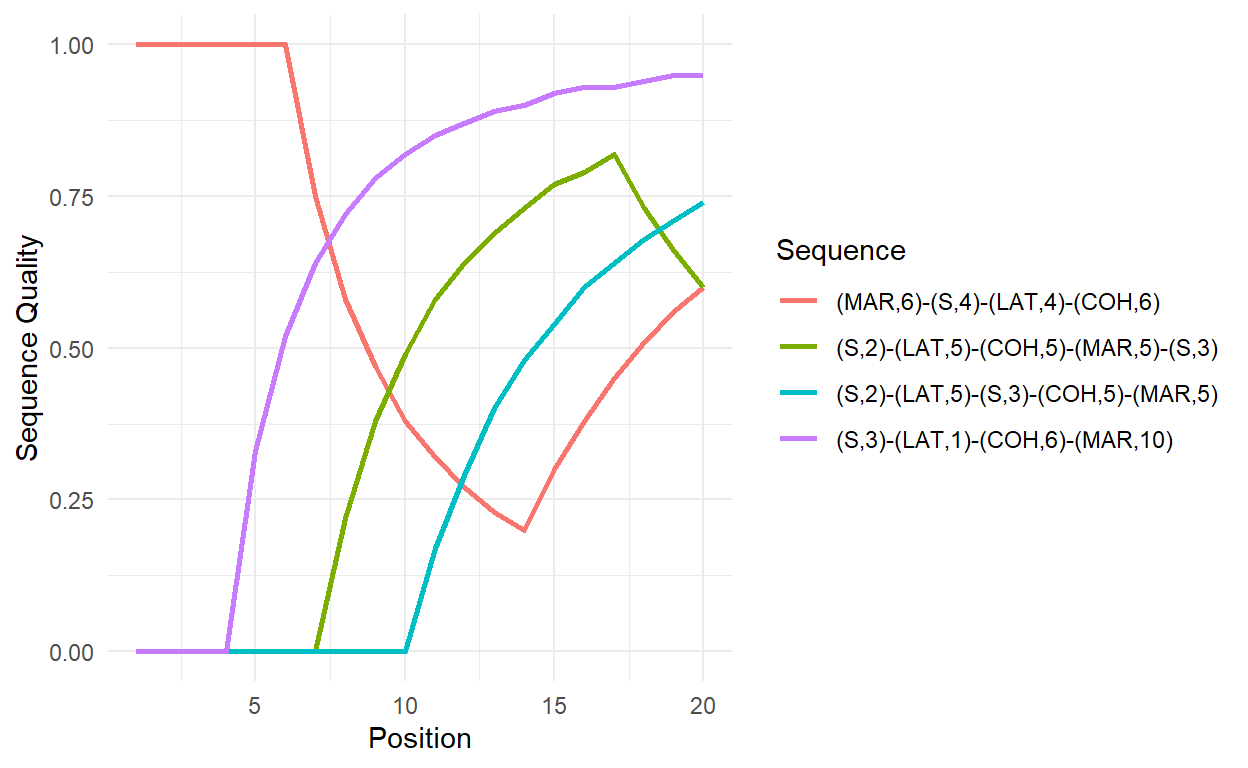
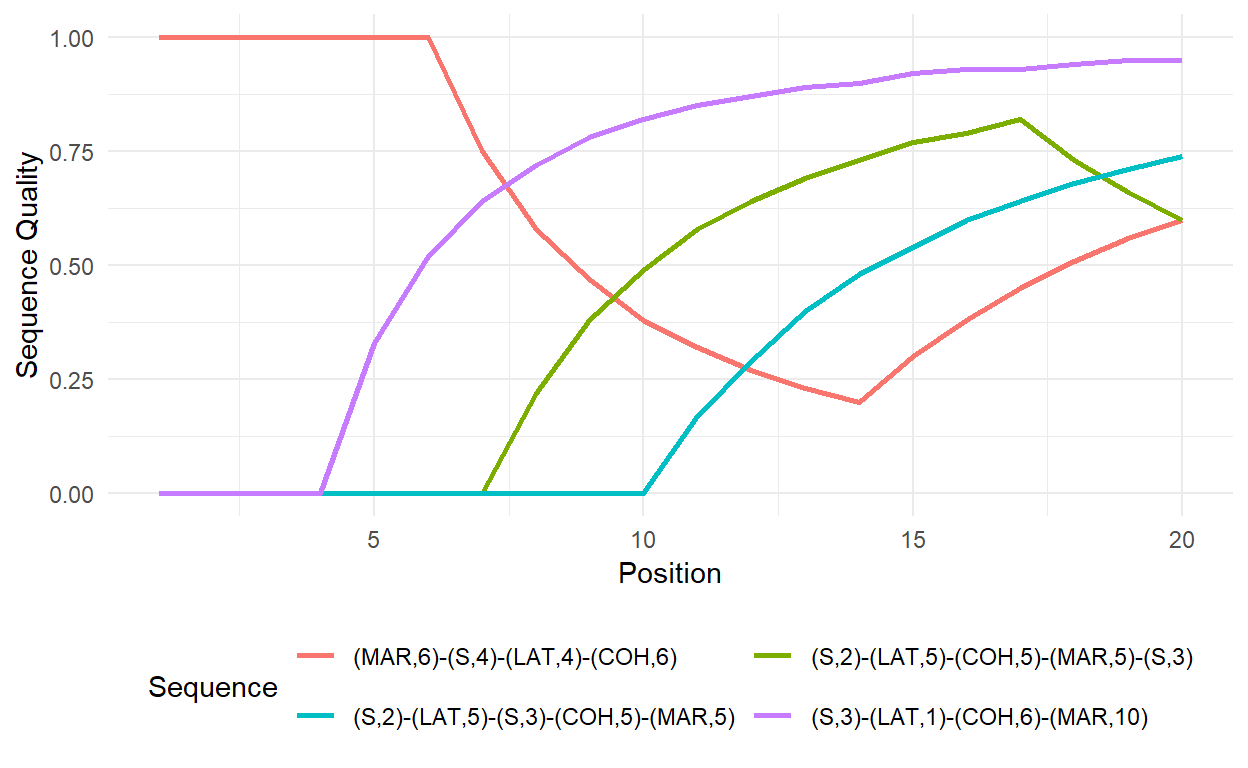
revised legend

diff --git a/rChapter2-5.html b/rChapter2-5.html
@@ -1637,8 +1637,13 @@ fig.data %&gt;%
              y = `Sequence Quality`, 
              color = Sequence)) +
   geom_line(size=1) +
-  theme_minimal()</code></pre>
+  theme_minimal() +
+  theme(legend.position=&quot;bottom&quot;) +
+  guides(col=guide_legend(nrow=2,byrow=TRUE)) </code></pre>
 <p><img src="rChapter2-5_files/figure-html5/unnamed-chunk-15-1.png" width="624" /></p>
+<pre class="r"><code>
+  #theme(legend.title = element_text(face = &quot;bold&quot;, hjust = .5),
+   #     legend.text = element_text(size = 6))</code></pre>
 </div>
 <p>Once we have stored the quality index and the other indices in one object, we can display them as a comprehenisve table (<strong>Table 2-10</strong> in the book).</p>
 <div class="layout-chunk" data-layout="l-body-outset">
